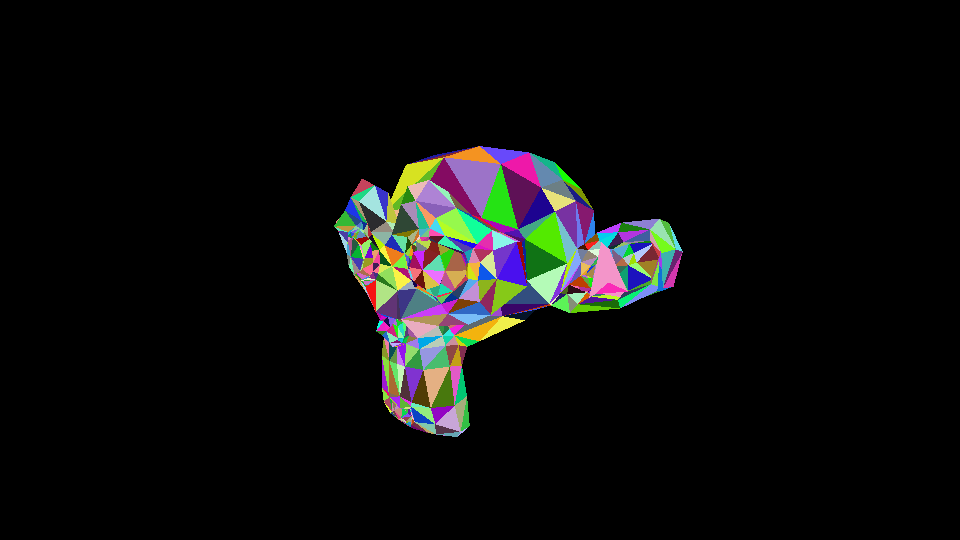
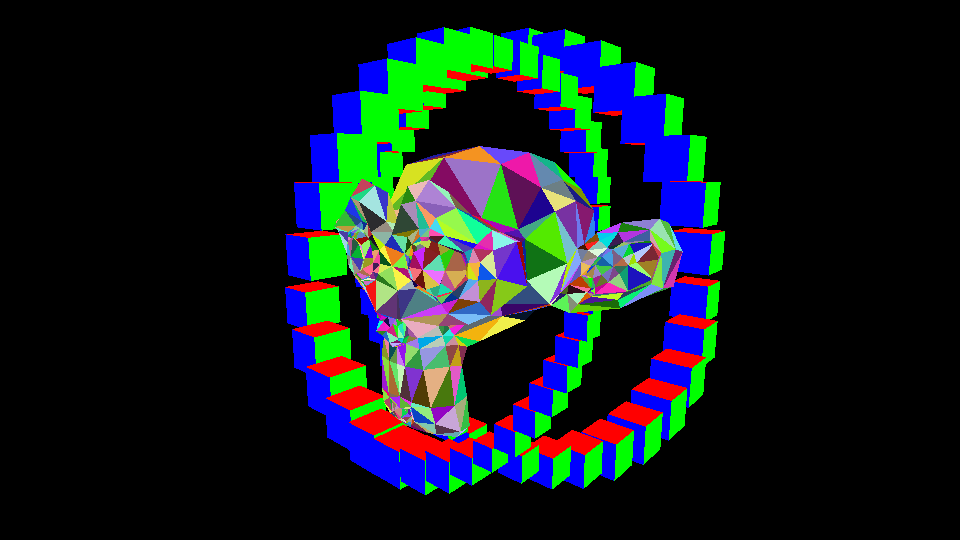
fixed only last processed object is rendered bug

Changed region(s): [[0.2812, 0.0296, 0.7812, 0.9185]]

diff --git a/src/camera.h b/src/camera.h
@@ -349,8 +349,10 @@ private:
             }
         }
 
+        /*
         if (!hit && img.get(i, j) != defaultColor)
-            img.set(i, j, defaultColor);
+        img.set(i, j, defaultColor);
+        */
     }
 
     bool getPixelColor(unsigned int i, unsigned int j, object obj, const std::vector<std::array<point, 3>> &tris, ray r1, bool combine = false)
@@ -383,8 +385,11 @@ private:
             }
         }
 
+
+        /*
         if (!hit && img.get(i, j) != defaultColor)
-            img.set(i, j, defaultColor);
+        img.set(i, j, defaultColor);
+        */
 
         return hit;
     }

diff --git a/src/main.cpp b/src/main.cpp
@@ -11,9 +11,11 @@ void scene_file()
 void test()
 {
     space s;
-    object obj(primitive::suzane, 10);
-    obj.enableGrid(20);
+    object obj(primitive::cube, 10);
+    object obj1(primitive::cube, 10, point(10, 0, 0));
+    //obj.enableGrid(20);
     s.addObject(obj);
+    s.addObject(obj1);
 
     MeshReader reader;
     s.loadReader("../scene_export.txt", reader);
@@ -23,7 +25,7 @@ void test()
 
 int main(int argc, char const *argv[])
 {
-    test();
+    scene_file();
     return 0;
 }
 
